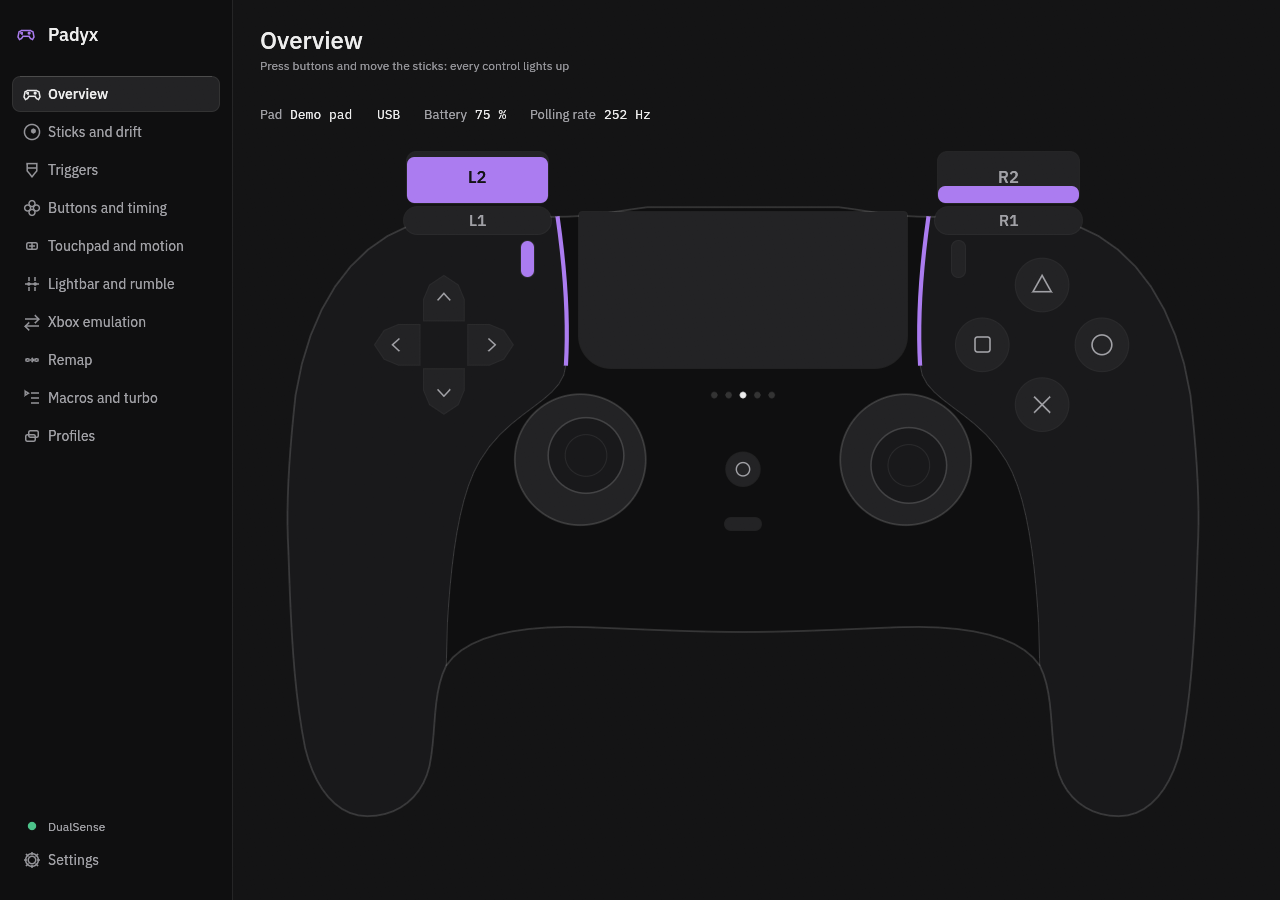
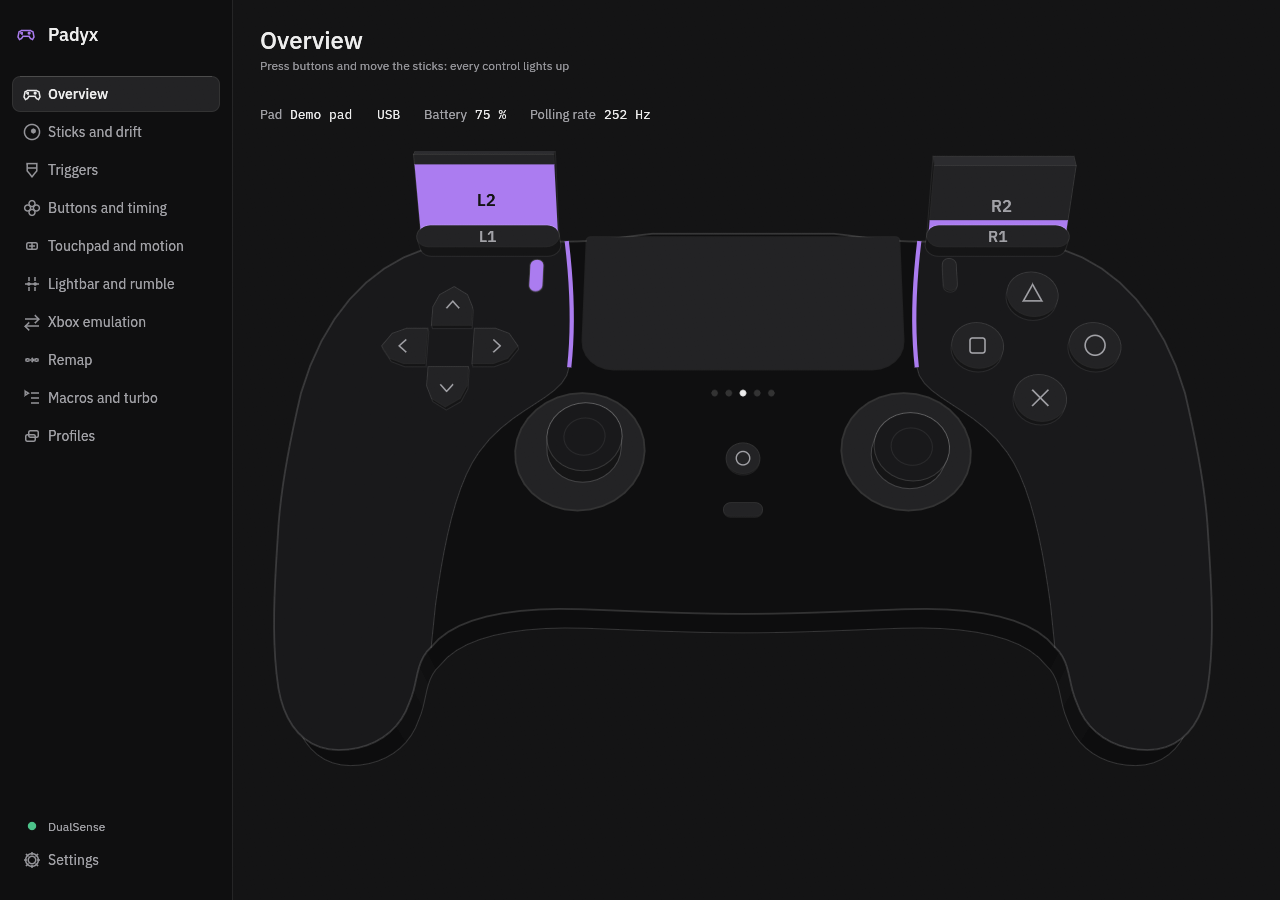
Padyx 1.0.1: tilted 2.5D pad with extruded body, trigger slabs, bumper bars and cylinder sticks

diff --git a/src/app/draw.rs b/src/app/draw.rs
@@ -3,7 +3,7 @@
 
 use crate::pad::{stick_norm, Btn, Finger, PadSnapshot, TOUCH_H, TOUCH_W};
 use crate::theme::{self, Pal};
-use eframe::egui::{self, epaint::PathStroke, Color32, CornerRadius, Painter, Pos2, Rect, Shape, Stroke, StrokeKind, Ui, pos2, vec2};
+use eframe::egui::{self, epaint::PathStroke, Color32, Painter, Pos2, Rect, Shape, Stroke, StrokeKind, Ui, pos2, vec2};
 use std::sync::OnceLock;
 
 type P = (f32, f32);
@@ -84,10 +84,10 @@ fn geo() -> &'static Geo {
         outer.push((140.0, 11.0));
         cubic(&mut outer, (70.0, 13.0), (20.0, 70.0), (6.0, 160.0));
         cubic(&mut outer, (0.0, 215.0), (-2.0, 255.0), (0.0, 290.0));
-        cubic(&mut outer, (2.0, 350.0), (4.0, 405.0), (14.0, 455.0));
-        cubic(&mut outer, (22.0, 488.0), (40.0, 512.0), (66.0, 512.0));
-        cubic(&mut outer, (92.0, 512.0), (112.0, 496.0), (118.0, 470.0));
-        cubic(&mut outer, (124.0, 440.0), (120.0, 410.0), (132.0, 386.0));
+        cubic(&mut outer, (2.0, 335.0), (4.0, 380.0), (14.0, 420.0));
+        cubic(&mut outer, (22.0, 450.0), (40.0, 470.0), (66.0, 470.0));
+        cubic(&mut outer, (92.0, 470.0), (112.0, 456.0), (118.0, 432.0));
+        cubic(&mut outer, (124.0, 415.0), (120.0, 398.0), (132.0, 386.0));
         let k = outer.len() - 1;
         cubic(&mut outer, (148.0, 362.0), (190.0, 352.0), (250.0, 354.0));
         cubic(&mut outer, (300.0, 356.0), (340.0, 358.0), (380.0, 358.0));
@@ -107,10 +107,10 @@ fn geo() -> &'static Geo {
     })
 }
 
-fn fill_mesh(painter: &Painter, m: &Map, pts: &[P], tris: &[[usize; 3]], col: Color32) {
+fn fill_mesh(painter: &Painter, pts: &[Pos2], tris: &[[usize; 3]], col: Color32) {
     let mut mesh = egui::Mesh::default();
     for q in pts {
-        mesh.colored_vertex(m.pt(q.0, q.1), col);
+        mesh.colored_vertex(*q, col);
     }
     for t in tris {
         mesh.add_triangle(t[0] as u32, t[1] as u32, t[2] as u32);
@@ -135,23 +135,94 @@ fn label(painter: &Painter, r: Rect, text: &str, size: f32, plain: Color32, on_f
     }
 }
 
+/// The pad is tilted about 23 degrees around the X axis (its top edge leans away) and seen through a weak
+/// perspective. Pad coordinates: x and y on the face (the outline above), z the height above the face.
+const TILT: f32 = 24.0;
+const CAM: f32 = 1500.0;
+/// How deep the body is below the face.
+const THICK: f32 = 46.0;
+
 struct Map {
     o: Pos2,
     s: f32,
+    sn: f32,
+    cs: f32,
 }
 
 impl Map {
-    /// Pad coordinates: x 0..760 (plus a margin), y from -44 (the triggers) to 512 (the grip tips).
-    fn pt(&self, x: f32, y: f32) -> Pos2 {
-        self.o + vec2(x + 4.0, y + 44.0) * self.s
+    fn new(o: Pos2, s: f32) -> Self {
+        let (sn, cs) = TILT.to_radians().sin_cos();
+        Self { o, s, sn, cs }
     }
-    fn rect(&self, x0: f32, y0: f32, x1: f32, y1: f32) -> Rect {
-        Rect::from_min_max(self.pt(x0, y0), self.pt(x1, y1))
+    /// A point of the pad on the screen.
+    fn p(&self, x: f32, y: f32, z: f32) -> Pos2 {
+        let (xc, yc) = (x - 380.0, y - 240.0);
+        let far = -yc * self.sn - z * self.cs;
+        let k = CAM / (CAM + far);
+        self.o + vec2(400.0 + xc * k, 272.0 + (yc * self.cs - z * self.sn) * k) * self.s
+    }
+    fn pts(&self, v: &[P], z: f32) -> Vec<Pos2> {
+        v.iter().map(|q| self.p(q.0, q.1, z)).collect()
     }
 }
 
-pub const PAD_W: f32 = 768.0;
-pub const PAD_H: f32 = 560.0;
+pub const PAD_W: f32 = 800.0;
+pub const PAD_H: f32 = 520.0;
+
+/// The convex hull of screen points (Andrew's monotone chain).
+fn hull(pts: &[Pos2]) -> Vec<Pos2> {
+    let mut p: Vec<P> = pts.iter().map(|q| (q.x, q.y)).collect();
+    p.sort_by(|a, b| a.partial_cmp(b).unwrap_or(std::cmp::Ordering::Equal));
+    p.dedup();
+    let cross = |o: P, a: P, b: P| (a.0 - o.0) * (b.1 - o.1) - (a.1 - o.1) * (b.0 - o.0);
+    let mut h: Vec<P> = Vec::new();
+    for pass in 0..2 {
+        let start = h.len();
+        let it: Box<dyn Iterator<Item = &P>> = if pass == 0 { Box::new(p.iter()) } else { Box::new(p.iter().rev()) };
+        for &q in it {
+            while h.len() >= start + 2 && cross(h[h.len() - 2], h[h.len() - 1], q) <= 0.0 {
+                h.pop();
+            }
+            h.push(q);
+        }
+        h.pop();
+    }
+    h.into_iter().map(|(x, y)| pos2(x, y)).collect()
+}
+
+fn circle_pts(c: P, r: f32) -> Vec<P> {
+    (0..32)
+        .map(|i| {
+            let a = i as f32 / 32.0 * std::f32::consts::TAU;
+            (c.0 + r * a.cos(), c.1 + r * a.sin())
+        })
+        .collect()
+}
+
+/// A rounded rectangle with a radius per corner (nw, ne, se, sw).
+fn rr_pts(x0: f32, y0: f32, x1: f32, y1: f32, r: [f32; 4]) -> Vec<P> {
+    let mut v = Vec::new();
+    let corners = [((x0 + r[0], y0 + r[0]), 180.0f32, r[0]), ((x1 - r[1], y0 + r[1]), 270.0, r[1]), ((x1 - r[2], y1 - r[2]), 0.0, r[2]), ((x0 + r[3], y1 - r[3]), 90.0, r[3])];
+    for (c, a0, rad) in corners {
+        for i in 0..=6 {
+            let a = (a0 + 90.0 * i as f32 / 6.0).to_radians();
+            v.push((c.0 + rad * a.cos(), c.1 + rad * a.sin()));
+        }
+    }
+    v
+}
+
+fn mix(a: Color32, b: Color32, t: f32) -> Color32 {
+    let l = |x: u8, y: u8| (x as f32 + (y as f32 - x as f32) * t).round() as u8;
+    Color32::from_rgb(l(a.r(), b.r()), l(a.g(), b.g()), l(a.b(), b.b()))
+}
+
+/// A convex solid: the walls are the hull of the base and the top, the top is drawn over them.
+fn solid(painter: &Painter, base: &[Pos2], top: &[Pos2], top_fill: Color32, wall: Color32, stroke: Stroke) {
+    let all: Vec<Pos2> = base.iter().chain(top.iter()).copied().collect();
+    painter.add(Shape::convex_polygon(hull(&all), wall, stroke));
+    painter.add(Shape::convex_polygon(top.to_vec(), top_fill, stroke));
+}
 
 /// Draws the controller in `rect`, as large as fits. Every control reflects the live state.
 pub fn dualsense(ui: &mut Ui, rect: Rect, pad: &PadSnapshot, p: &Pal) {
@@ -159,62 +230,106 @@ pub fn dualsense(ui: &mut Ui, rect: Rect, pad: &PadSnapshot, p: &Pal) {
     let painter = ui.painter_at(rect);
     let s = (rect.width() / PAD_W).min(rect.height() / PAD_H);
     let o = rect.center() - vec2(PAD_W, PAD_H) * s / 2.0;
-    let m = Map { o, s };
+    let m = Map::new(o, s);
     let hair = Stroke::new(1.0, p.line);
+    let edge = Stroke::new((1.5 * s).max(1.0), p.line_hi);
     let g = geo();
+    // Flat shades: a top face, and darker walls by how much they face the viewer.
+    let shade = |c: Color32, k: f32| mix(c, if p.dark { Color32::BLACK } else { Color32::from_gray(135) }, k);
 
-    // Body: the wings, the central plate on top, a hairline seam, then the silhouette outline.
-    let outline_pts: Vec<Pos2> = g.outline.iter().map(|q| m.pt(q.0, q.1)).collect();
-    fill_mesh(&painter, &m, &g.outline, &g.outline_tris, p.card);
-    fill_mesh(&painter, &m, &g.plate, &g.plate_tris, p.sidebar);
-    let seam_stroke = Stroke::new(1.0, p.line_hi);
-    for mirror in [false, true] {
-        let pts: Vec<Pos2> = g.seam.iter().map(|&(x, y)| m.pt(if mirror { 760.0 - x } else { x }, y)).collect();
-        painter.add(Shape::line(pts, PathStroke::new(seam_stroke.width, seam_stroke.color)));
+    // Body: the extruded walls (by the direction they face), then the wings, the central plate, the seam, the edge.
+    {
+        let n = g.outline.len();
+        let area: f32 = (0..n).map(|i| g.outline[i].0 * g.outline[(i + 1) % n].1 - g.outline[(i + 1) % n].0 * g.outline[i].1).sum();
+        let mut mesh = egui::Mesh::default();
+        let top = m.pts(&g.outline, 0.0);
+        let low = m.pts(&g.outline, -THICK);
+        for i in 0..n {
+            let j = (i + 1) % n;
+            let (dx, dy) = (g.outline[j].0 - g.outline[i].0, g.outline[j].1 - g.outline[i].1);
+            let len = (dx * dx + dy * dy).sqrt().max(1e-3);
+            let ny = if area > 0.0 { -dx / len } else { dx / len };
+            let col = if ny > 0.6 {
+                shade(p.card, 0.5)
+            } else if ny > 0.2 {
+                shade(p.card, 0.38)
+            } else if ny > -0.15 {
+                shade(p.card, 0.26)
+            } else {
+                continue;
+            };
+            let b = mesh.vertices.len() as u32;
+            for q in [top[i], top[j], low[j], low[i]] {
+                mesh.colored_vertex(q, col);
+            }
+            mesh.add_triangle(b, b + 1, b + 2);
+            mesh.add_triangle(b, b + 2, b + 3);
+        }
+        painter.add(Shape::mesh(mesh));
+        painter.add(Shape::closed_line(low, Stroke::new(1.0, p.line_hi)));
     }
-    painter.add(Shape::closed_line(outline_pts, Stroke::new((1.5 * s).max(1.0), p.line_hi)));
+    let top_pts = m.pts(&g.outline, 0.0);
+    fill_mesh(&painter, &top_pts, &g.outline_tris, p.card);
+    fill_mesh(&painter, &m.pts(&g.plate, 0.0), &g.plate_tris, p.sidebar);
+    for mirror in [false, true] {
+        let pts: Vec<Pos2> = g.seam.iter().map(|&(x, y)| m.p(if mirror { 760.0 - x } else { x }, y, 0.0)).collect();
+        painter.add(Shape::line(pts, PathStroke::new(1.0, p.line_hi)));
+    }
+    painter.add(Shape::closed_line(top_pts, edge));
 
     let on = |b: Btn| st.pressed(b);
     let fill_for = |pressed: bool| if pressed { p.accent } else { p.raised };
     // Controls on the dark central plate need another shade than the ones on the wings.
     let plate_for = |pressed: bool| if pressed { p.accent } else if p.dark { p.raised } else { p.card };
     let glyph_col = |pressed: bool| if pressed { p.on_accent } else { p.text2 };
+    let wall_for = |pressed: bool| if pressed { shade(p.accent, 0.35) } else { shade(p.raised, 0.4) };
 
-    // Triggers (fill by value) and shoulder buttons.
-    for (x0, x1, v, click, name) in [(98.0, 218.0, st.trigger_l(), on(Btn::L2), "L2"), (542.0, 662.0, st.trigger_r(), on(Btn::R2), "R2")] {
-        let r = m.rect(x0, -44.0, x1, 0.0);
-        painter.rect(r, 8.0 * s, p.raised, if click { Stroke::new(1.5, p.accent) } else { hair }, StrokeKind::Inside);
-        let h = r.height() * v;
-        let mut filled = None;
-        if h > 0.5 {
-            let f = Rect::from_min_max(pos2(r.left() + 1.0, r.bottom() - h), pos2(r.right() - 1.0, r.bottom() - 1.0));
-            painter.rect_filled(f, 6.0 * s, p.accent);
-            filled = Some(f);
-        }
-        label(&painter, r, name, 14.0 * s, p.text2, p.on_accent, filled);
+    // Light strips along the seam, the touchpad, the fingers, the player LEDs: all on the face.
+    let lc = pad.out.light_scaled();
+    let lcol = Color32::from_rgb(lc[0], lc[1], lc[2]);
+    for mirror in [false, true] {
+        let pts: Vec<Pos2> = g.seam[..=10].iter().map(|&(x, y)| m.p(if mirror { 760.0 - x } else { x }, y, 0.0)).collect();
+        painter.add(Shape::line(pts, PathStroke::new(3.5 * s.max(0.7), lcol)));
     }
-    for (x0, x1, btn, name) in [(96.0, 220.0, Btn::L1, "L1"), (540.0, 664.0, Btn::R1, "R1")] {
-        let r = m.rect(x0, 2.0, x1, 26.0);
-        painter.rect(r, 12.0 * s, fill_for(on(btn)), hair, StrokeKind::Inside);
-        label(&painter, r, name, 13.0 * s, p.text2, p.on_accent, if on(btn) { Some(r) } else { None });
+    let (tx0, ty0, tx1, ty1) = (242.0, 6.0, 518.0, 138.0);
+    painter.add(Shape::convex_polygon(m.pts(&rr_pts(tx0, ty0, tx1, ty1, [4.0, 4.0, 28.0, 28.0]), 0.0), plate_for(on(Btn::Touchpad)), hair));
+    for f in &st.touch {
+        if f.active {
+            let c = m.p(tx0 + (tx1 - tx0) * f.x as f32 / TOUCH_W, ty0 + (ty1 - ty0) * f.y as f32 / TOUCH_H, 0.0);
+            painter.circle_filled(c, 7.0 * s, if on(Btn::Touchpad) { p.on_accent } else { p.accent });
+        }
+    }
+    for i in 0..5 {
+        let lit = pad.out.players & (1 << i) != 0;
+        painter.circle_filled(m.p(356.0 + 12.0 * i as f32, 160.0, 0.0), 2.6 * s.max(0.7), if lit { p.text } else { p.line_hi });
+    }
+
+    // Create, Options, PS, Mute.
+    for (cx, btn) in [(200.0, Btn::Create), (560.0, Btn::Options)] {
+        let base = rr_pts(cx - 6.0, 30.0, cx + 6.0, 62.0, [6.0; 4]);
+        let z = if on(btn) { 1.5 } else { 3.0 };
+        solid(&painter, &m.pts(&base, 0.0), &m.pts(&base, z), fill_for(on(btn)), wall_for(on(btn)), hair);
+    }
+    {
+        let z = if on(Btn::Ps) { 1.5 } else { 3.0 };
+        let base = circle_pts((380.0, 222.0), 14.0);
+        solid(&painter, &m.pts(&base, 0.0), &m.pts(&base, z), plate_for(on(Btn::Ps)), wall_for(on(Btn::Ps)), hair);
+        painter.circle_stroke(m.p(380.0, 222.0, z), 5.0 * s, Stroke::new(1.4, glyph_col(on(Btn::Ps))));
+        let base = rr_pts(364.0, 262.0, 396.0, 274.0, [6.0; 4]);
+        let z = if on(Btn::Mute) { 1.0 } else { 2.5 };
+        solid(&painter, &m.pts(&base, 0.0), &m.pts(&base, z), plate_for(on(Btn::Mute)), wall_for(on(Btn::Mute)), hair);
     }
 
     // D-pad: four separate arrow-shaped pads.
     let dc = (130.0, 118.0);
     for (btn, ang) in [(Btn::Up, 0.0f32), (Btn::Right, 90.0), (Btn::Down, 180.0), (Btn::Left, 270.0)] {
         let (sn, cs) = ang.to_radians().sin_cos();
-        // a pad pointing up, in its own frame, then turned and moved out from the centre
         let rot = |x: f32, y: f32| (dc.0 + x * cs - y * sn, dc.1 + x * sn + y * cs);
-        let pts: Vec<Pos2> = [(-17.0, -20.0), (-17.0, -38.0), (-12.0, -50.0), (0.0, -58.0), (12.0, -50.0), (17.0, -38.0), (17.0, -20.0)]
-            .iter()
-            .map(|&(x, y)| {
-                let (a, b) = rot(x, y);
-                m.pt(a, b)
-            })
-            .collect();
-        painter.add(Shape::convex_polygon(pts, fill_for(on(btn)), hair));
+        let base: Vec<P> = [(-17.0, -20.0), (-17.0, -38.0), (-12.0, -50.0), (0.0, -58.0), (12.0, -50.0), (17.0, -38.0), (17.0, -20.0)].iter().map(|&(x, y)| rot(x, y)).collect();
+        let z = if on(btn) { 3.0 } else { 6.0 };
+        solid(&painter, &m.pts(&base, 0.0), &m.pts(&base, z), fill_for(on(btn)), wall_for(on(btn)), hair);
         let (cx, cy) = rot(0.0, -40.0);
-        let c = m.pt(cx, cy);
+        let c = m.p(cx, cy, z);
         let k = 5.0 * s;
         let (a, b, d) = match btn {
             Btn::Up => (c + vec2(-k, k * 0.5), c + vec2(0.0, -k * 0.6), c + vec2(k, k * 0.5)),
@@ -225,14 +340,14 @@ pub fn dualsense(ui: &mut Ui, rect: Rect, pad: &PadSnapshot, p: &Pal) {
         painter.add(Shape::line(vec![a, b, d], PathStroke::new(1.5, glyph_col(on(btn)))));
     }
 
-    // Face buttons: a diamond of round buttons.
+    // Face buttons: a diamond of short round buttons.
     let fc = (630.0, 118.0);
     for (btn, dx, dy) in [(Btn::Triangle, 0.0, -50.0), (Btn::Circle, 50.0, 0.0), (Btn::Cross, 0.0, 50.0), (Btn::Square, -50.0, 0.0)] {
-        let c = m.pt(fc.0 + dx, fc.1 + dy);
-        let r = 22.0 * s;
-        painter.circle(c, r, fill_for(on(btn)), hair);
-        let gc = glyph_col(on(btn));
-        let gs = Stroke::new(1.6, gc);
+        let base = circle_pts((fc.0 + dx, fc.1 + dy), 22.0);
+        let z = if on(btn) { 3.0 } else { 7.0 };
+        solid(&painter, &m.pts(&base, 0.0), &m.pts(&base, z), fill_for(on(btn)), wall_for(on(btn)), hair);
+        let c = m.p(fc.0 + dx, fc.1 + dy, z);
+        let gs = Stroke::new(1.6, glyph_col(on(btn)));
         let k = 8.0 * s;
         match btn {
             Btn::Triangle => {
@@ -251,45 +366,53 @@ pub fn dualsense(ui: &mut Ui, rect: Rect, pad: &PadSnapshot, p: &Pal) {
         }
     }
 
-    // Touchpad (juts up at the top), the light strips along the seam, the fingers, the player LEDs.
-    let tp = m.rect(242.0, 6.0, 518.0, 138.0);
-    let cr = CornerRadius { nw: (4.0 * s) as u8, ne: (4.0 * s) as u8, sw: (28.0 * s) as u8, se: (28.0 * s) as u8 };
-    painter.rect(tp, cr, plate_for(on(Btn::Touchpad)), hair, StrokeKind::Inside);
-    let lc = pad.out.light_scaled();
-    let lcol = Color32::from_rgb(lc[0], lc[1], lc[2]);
-    for mirror in [false, true] {
-        let pts: Vec<Pos2> = g.seam[..=10].iter().map(|&(x, y)| m.pt(if mirror { 760.0 - x } else { x }, y)).collect();
-        painter.add(Shape::line(pts, PathStroke::new(3.5 * s.max(0.7), lcol)));
-    }
-    for f in &st.touch {
-        if f.active {
-            let c = finger_pos(tp, f);
-            painter.circle_filled(c, 7.0 * s, if on(Btn::Touchpad) { p.on_accent } else { p.accent });
-        }
-    }
-    for i in 0..5 {
-        let lit = pad.out.players & (1 << i) != 0;
-        painter.circle_filled(m.pt(356.0 + 12.0 * i as f32, 160.0), 2.6 * s.max(0.7), if lit { p.text } else { p.line_hi });
-    }
-
-    // Create, Options, PS, Mute.
-    for (cx, btn) in [(200.0, Btn::Create), (560.0, Btn::Options)] {
-        painter.rect(m.rect(cx - 6.0, 30.0, cx + 6.0, 62.0), 6.0 * s, fill_for(on(btn)), hair, StrokeKind::Inside);
-    }
-    painter.circle(m.pt(380.0, 222.0), 14.0 * s, plate_for(on(Btn::Ps)), hair);
-    painter.circle_stroke(m.pt(380.0, 222.0), 5.0 * s, Stroke::new(1.4, glyph_col(on(Btn::Ps))));
-    painter.rect(m.rect(364.0, 262.0, 396.0, 274.0), 6.0 * s, plate_for(on(Btn::Mute)), hair, StrokeKind::Inside);
-
-    // Sticks, closer together than the face buttons: a ring, a cap that follows the stick; the click fills the cap.
-    let cap_idle = if p.dark { p.card } else { p.raised };
+    // Sticks: a well in the face and a short cylinder that leans and shifts toward the stick; the click sinks it.
     for (cx, cy, raw, btn) in [(244.0, 214.0, (st.lx, st.ly), Btn::L3), (516.0, 214.0, (st.rx, st.ry), Btn::R3)] {
-        let c = m.pt(cx, cy);
-        painter.circle(c, 54.0 * s, plate_for(false), hair);
-        painter.circle_stroke(c, 54.0 * s, Stroke::new((1.5 * s).max(1.0), p.line_hi));
+        let well = m.pts(&circle_pts((cx, cy), 54.0), 0.0);
+        painter.add(Shape::convex_polygon(well.clone(), plate_for(false), edge));
         let (x, y) = stick_norm(raw.0, raw.1);
-        let cap = c + vec2(x, -y) * 20.0 * s;
-        painter.circle(cap, 31.0 * s, if on(btn) { p.accent } else { cap_idle }, Stroke::new(1.5, if on(btn) { p.accent } else { p.line_hi }));
-        painter.circle_stroke(cap, 17.0 * s, Stroke::new(1.0, if on(btn) { p.on_accent } else { p.line }));
+        let (bx, by) = (cx + x * 14.0, cy - y * 14.0);
+        let (tx, ty) = (cx + x * 22.0, cy - y * 22.0);
+        let pressed = on(btn);
+        let z = if pressed { 13.0 } else { 20.0 };
+        let top = m.pts(&circle_pts((tx, ty), 31.0), z);
+        let cap = if pressed { p.accent } else if p.dark { p.card } else { p.raised };
+        solid(&painter, &m.pts(&circle_pts((bx, by), 31.0), 0.0), &top, cap, wall_for(pressed), Stroke::new(1.0, p.line_hi));
+        painter.add(Shape::closed_line(m.pts(&circle_pts((tx, ty), 17.0), z), Stroke::new(1.0, if pressed { p.on_accent } else { p.line })));
+    }
+
+    // Triggers: slanted slabs on the top edge, behind the shoulders; a pull rotates them back and fills them.
+    for (x0, x1, v, click, name) in [(98.0f32, 218.0f32, st.trigger_l(), on(Btn::L2), "L2"), (542.0, 662.0, st.trigger_r(), on(Btn::R2), "R2")] {
+        let (len, thick, yb) = (84.0f32, 14.0f32, 16.0f32);
+        let (sp, cp) = (14.0 + 26.0 * v).to_radians().sin_cos();
+        let (ty, tz) = (yb - len * sp, len * cp);
+        let (by, bz) = (-thick * cp, -thick * sp);
+        let fbl = m.p(x0, yb, 0.0);
+        let fbr = m.p(x1, yb, 0.0);
+        let ftr = m.p(x1, ty, tz);
+        let ftl = m.p(x0, ty, tz);
+        let bback = |x: f32, y: f32, z: f32| m.p(x, y, z.max(0.0));
+        let all = [fbl, fbr, ftr, ftl, bback(x0, yb + by, 0.0), bback(x1, yb + by, 0.0), bback(x1, ty + by, tz + bz), bback(x0, ty + by, tz + bz)];
+        painter.add(Shape::convex_polygon(hull(&all), shade(p.raised, 0.4), hair));
+        let cap = if p.dark { p.raised_hi } else { p.card };
+        painter.add(Shape::convex_polygon(vec![ftl, ftr, all[6], all[7]], cap, hair));
+        painter.add(Shape::convex_polygon(vec![fbl, fbr, ftr, ftl], p.raised, if click { Stroke::new(1.5, p.accent) } else { hair }));
+        let mut filled = None;
+        if v > 0.01 {
+            let at = |x: f32| m.p(x, yb + (ty - yb) * v, tz * v);
+            let q = vec![fbl, fbr, at(x1), at(x0)];
+            painter.add(Shape::convex_polygon(q.clone(), p.accent, Stroke::NONE));
+            filled = Some(Rect::from_points(&q));
+        }
+        label(&painter, Rect::from_points(&[fbl, fbr, ftr, ftl]), name, 14.0 * s, p.text2, p.on_accent, filled);
+    }
+    // Shoulder buttons: thin bars along the shoulder, in front of the triggers; a press sinks them.
+    for (x0, x1, btn, name) in [(96.0f32, 220.0f32, Btn::L1, "L1"), (540.0, 664.0, Btn::R1, "R1")] {
+        let base = rr_pts(x0, 4.0, x1, 26.0, [11.0; 4]);
+        let z = if on(btn) { 11.0 } else { 16.0 };
+        let top = m.pts(&base, z);
+        solid(&painter, &m.pts(&base, 0.0), &top, fill_for(on(btn)), wall_for(on(btn)), hair);
+        label(&painter, Rect::from_points(&top), name, 13.0 * s, p.text2, p.on_accent, if on(btn) { Some(Rect::from_points(&top)) } else { None });
     }
 }
 
